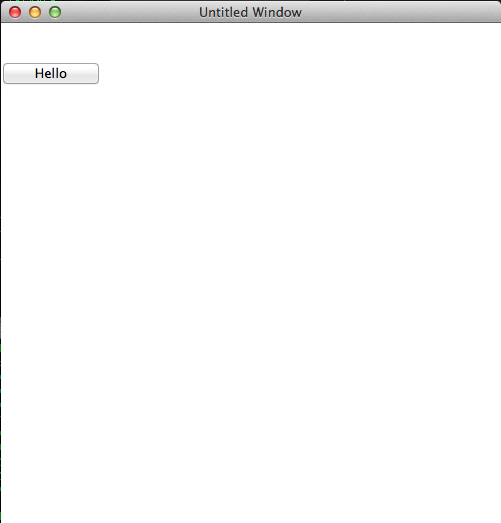
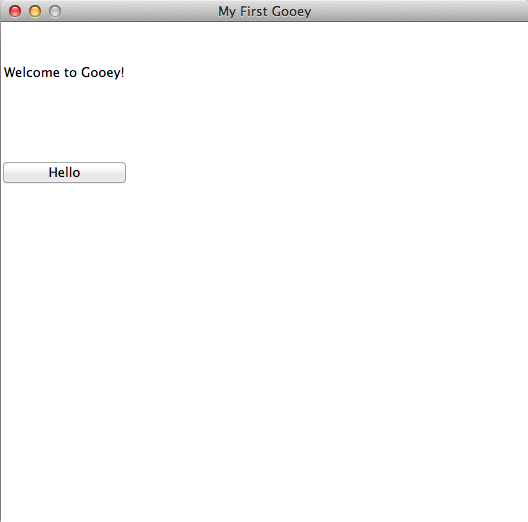
removed dumb print statement

diff --git a/attributes.py b/attributes.py
@@ -308,7 +308,6 @@ class Star(str):
 
 #Attributes to put in List
 class ColorAttribute(List):
-    print("rgbregex type:", rgbRegex)
     grammar = 'color', blank, attr('value', [rgbRegex, hexRegex, ColorKeywordValue])
 
 #TextColor

diff --git a/documentation/source/Tutorials.rst b/documentation/source/Tutorials.rst
@@ -19,11 +19,11 @@ You can now enter the Gooey language into the editor.
 
 To start, make an empty window. Type in the editor::
 
- make Window w. 
+ make Window win. 
  
 When you’re ready to run your GUI, hit the play button at the bottom right corner.
  
-.. image:: images/run.png
+.. image:: images/editor.png
  
 This is your live preview. Right now it’s a little boring. 
 
@@ -31,32 +31,25 @@ This is your live preview. Right now it’s a little boring.
 
 Make the window bigger or smaller with the set command. The set command allows you to modify one or more things at a time. Try adjusting the title of the window, which will appear in the bar across the top. Type::
 
- set w size 5 5, title "My First Gooey".
+ set win size 5 5, title "My First Gooey".
+ 
+.. image:: images/empty.png
  
 An empty window is useless though. To add writing to your GUI, you'll need to add a Text object. Type::
 
- make Text t with text "Welcome to Gooey!".
+ make Text greeting with text "Welcome to Gooey!".
 
-INSERT PICTURE
-make sure punctuation works in text objects.
-
+.. image:: images/welcome.png
 
 Now you’re ready to add a button. Type::
 
- make Button b with text “Hello”.
+ make Button hello with text “Hello”, position 1 1.
 
 After you Run, your GUI should look like this
 
 .. image:: images/hello.png
 
-
-Now that you have a simple layout, you can modify your existing objects further by using the *set* function. Try::
-
- set w color green.
- 
-.. image:: images/green.png
-
-Your button is currently useless. You can click it, but since we haven't given it an *action* attribute, it won't do anything.
+Your button is currently useless. You can click it, but since we haven't given it an *action* attribute, it won't do anything. You can modify existing objects further by using the *set* function.
 
 Try::
 
@@ -72,11 +65,9 @@ Now, let's try making a slightly more complicated Gooey.
 
 Remember, always start by making a window::
 
- make Window w with title "Gooey Two", size 10 10, color blue.
+ make Window w with title "Gooey Two", size 4 5, color #8fefdc.
  
-Make things more decorative by adding a picture. This will use the *Image* object, and will need a still picture in the .gif format. For example::
-
- make Image apple with source "apple.gif", position 0 1.
+ .. image:: images/gooeytwo.png
  
 There are times when you might want your users to write something out. A TextBox is perfect in this situation! Type::
 
